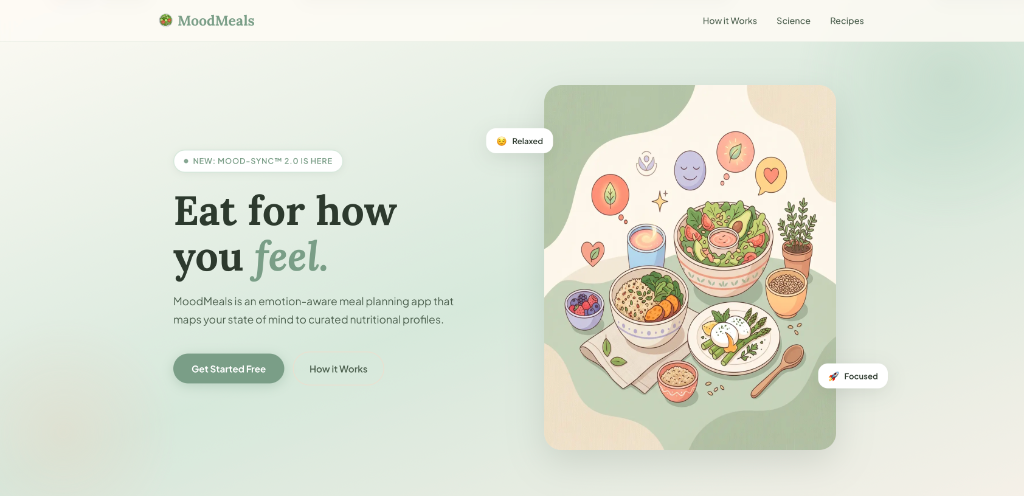
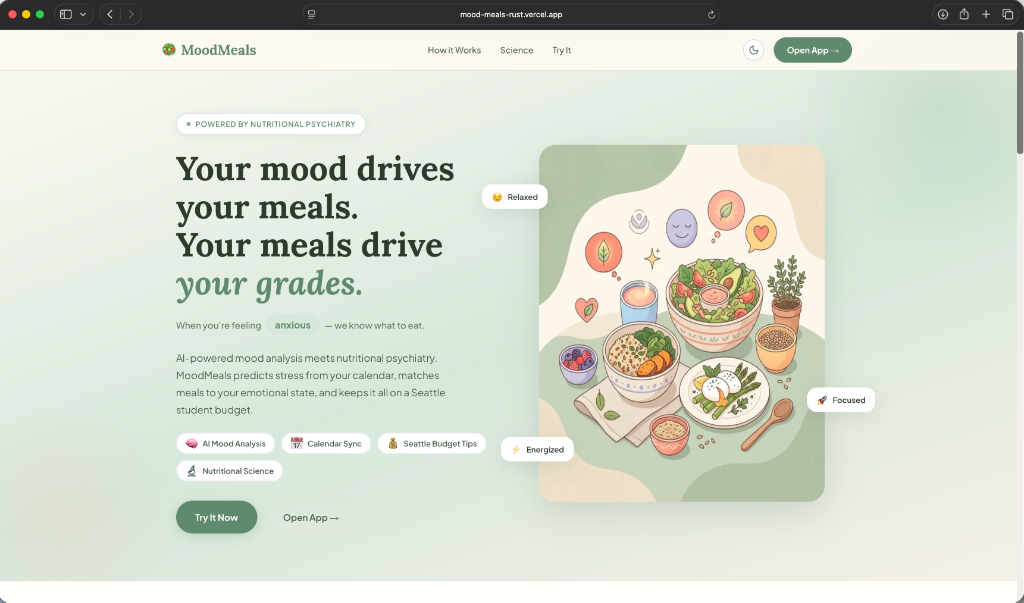
Updated projects

diff --git a/src/components/portfolio/WorkSection.jsx b/src/components/portfolio/WorkSection.jsx
@@ -6,13 +6,24 @@ export default function WorkSection() {
 
   const projects = [
     {
-      title: "MoodMeals",
-      company: "Personal Project",
+      title: "TheManager",
+      company: "UWB HACKS 2026",
       year: "2026",
-      description: "An emotion-aware meal planning PWA that maps psychological states to nutritional profiles, using AI to provide science-backed meal recommendations for emotional regulation and cognitive performance.",
-      tags: ["React (PWA)", "FastAPI", "Claude API", "Supabase", "Spoonacular API", "Tailwind CSS"],
+      description: "An AI-powered software factory that turns a product spec into a populated kanban, runs seven specialist agents to deliver each ticket, and shows the reasoning behind every decision for full auditability.",
+      tags: ["TypeScript", "React", "Node.js", "Gemma 4", "PostgreSQL", "Tauri"],
+      image: "./images/the-manager.png",
+      github: "https://github.com/aditya-pandita/theManager",
+      live: "https://devpost.com/software/themanager",
+    },
+    {
+      title: "MoodMeals",
+      company: "Emotion-Aware Meal PWA",
+      year: "2026",
+      description: "Emotion-aware meal planning PWA for college students. Uses Google Gemini 2.0 and Spoonacular to map psychological states to nutritional profiles, featuring grocery tracking and Google Calendar sync.",
+      tags: ["Next.js 16", "React 19", "TypeScript", "Supabase", "Gemini 2.0", "PWA"],
       image: "./images/mood-meals.png",
-      github: "https://github.com/vatsalp2008/MoodMeals",
+      github: "https://github.com/rohanjoshi1399/MoodMeals",
+      live: "https://mood-meals-rust.vercel.app",
     },
     {
       title: "F1 Race Predictions 2025",
@@ -60,13 +71,13 @@ export default function WorkSection() {
       github: "https://github.com/vatsalp2008",
     },
     {
-      title: "F1 Race Replay",
+      title: "F1 Analytics Dashboard",
       company: "Personal Project",
       year: "2025",
-      description: "Interactive F1 race telemetry visualization with live driver tracking, leaderboard, and replay controls for race analysis.",
-      tags: ["Python", "FastF1", "Arcade", "Data Visualization", "Real-time Processing"],
-      image: "./images/preview.png",
-      github: "https://github.com/vatsalp2008/F1-Race-Replay",
+      description: "Full-stack F1 analytics platform with interactive dashboards for lap telemetry, driver comparisons, and race strategy analysis using the FastF1 API and real-time data pipelines.",
+      tags: ["Python", "FastF1", "React", "Data Visualization", "REST API"],
+      image: "https://qtrypzzcjebvfcihiynt.supabase.co/storage/v1/object/public/base44-prod/public/68fdae81f7836cad567112d4/299a839c1_ferrari_f1_2027-wallpaper-2880x1620.jpg",
+      github: "https://github.com/vatsalp2008/f1-analytics-dashboard",
     },
   ];
 
@@ -121,9 +132,9 @@ export default function WorkSection() {
                 </div>
 
                 {/* Browser Content - Clickable if GitHub link exists */}
-                {project.github ? (
+                {project.live || project.github ? (
                   <a
-                    href={project.github}
+                    href={project.live || project.github}
                     target="_blank"
                     rel="noopener noreferrer"
                     className="block relative aspect-[16/10] overflow-hidden bg-[#0a0a0a] border border-gray-800 rounded-b-xl cursor-pointer"
@@ -162,9 +173,33 @@ export default function WorkSection() {
                     <h3 className="text-xl md:text-2xl font-bold mb-1 group-hover:text-[#DC0000] transition-colors duration-300">
                       {project.title}
                     </h3>
-                    <p className="text-sm text-gray-500">
-                      {project.company} · '{project.year.slice(-2)}
-                    </p>
+                    <div className="flex flex-wrap items-center gap-x-4 gap-y-2 mb-2">
+                      <p className="text-sm text-gray-400">
+                        {project.company} · '{project.year.slice(-2)}
+                      </p>
+                      <div className="flex gap-3">
+                        {project.github && (
+                          <a
+                            href={project.github}
+                            target="_blank"
+                            rel="noopener noreferrer"
+                            className="text-xs text-gray-500 hover:text-[#DC0000] transition-colors"
+                          >
+                            GitHub ↗
+                          </a>
+                        )}
+                        {project.live && (
+                          <a
+                            href={project.live}
+                            target="_blank"
+                            rel="noopener noreferrer"
+                            className="text-xs text-gray-500 hover:text-[#DC0000] transition-colors"
+                          >
+                            Live Demo ↗
+                          </a>
+                        )}
+                      </div>
+                    </div>
                   </div>
                 </div>
 
@@ -185,32 +220,6 @@ export default function WorkSection() {
             </motion.div>
           ))}
         </div>
-
-        {/* Stats Section */}
-        <motion.div
-          initial={{ opacity: 0, y: 20 }}
-          whileInView={{ opacity: 1, y: 0 }}
-          transition={{ duration: 0.6, delay: 0.4 }}
-          viewport={{ once: true }}
-          className="mt-24 grid grid-cols-2 md:grid-cols-4 gap-8 border-t border-gray-800 pt-12"
-        >
-          <div className="text-center">
-            <div className="text-3xl md:text-4xl font-bold text-[#DC0000] mb-2">98.8%</div>
-            <div className="text-sm text-gray-500">ML Model Accuracy</div>
-          </div>
-          <div className="text-center">
-            <div className="text-3xl md:text-4xl font-bold text-[#DC0000] mb-2">85.7%</div>
-            <div className="text-sm text-gray-500">LLM Agent Accuracy</div>
-          </div>
-          <div className="text-center">
-            <div className="text-3xl md:text-4xl font-bold text-[#DC0000] mb-2">97%</div>
-            <div className="text-sm text-gray-500">Performance Improvement</div>
-          </div>
-          <div className="text-center">
-            <div className="text-3xl md:text-4xl font-bold text-[#DC0000] mb-2">7+</div>
-            <div className="text-sm text-gray-500">Major Projects</div>
-          </div>
-        </motion.div>
 
         {/* View More */}
         <motion.div

diff --git a/src/components/portfolio/EducationSection.jsx b/src/components/portfolio/EducationSection.jsx
@@ -47,13 +47,6 @@ export default function EducationSection() {
     },
   ];
 
-  const certifications = [
-    "AWS Certified Solutions Architect",
-    "Google Cloud Professional Developer",
-    "Certified Kubernetes Administrator",
-    "MongoDB Certified Developer",
-  ];
-
   return (
     <section className="relative min-h-screen py-32 px-6">
       {/* Background Elements */}
@@ -163,37 +156,6 @@ export default function EducationSection() {
           ))}
         </div>
 
-        {/* Certifications */}
-        <motion.div
-          initial={{ opacity: 0, y: 30 }}
-          whileInView={{ opacity: 1, y: 0 }}
-          transition={{ duration: 0.6, delay: 0.4 }}
-          viewport={{ once: true }}
-          className="bg-gradient-to-br from-[#1a1a1a] to-[#121212] border border-[#DC0000]/20 rounded-sm p-8"
-        >
-          <h3 className="text-2xl font-black text-[#F5F5F5] mb-6 flex items-center gap-3">
-            <div className="p-2 bg-[#DC0000]/10 rounded-sm">
-              <Award className="w-6 h-6 text-[#DC0000]" />
-            </div>
-            Professional Certifications
-          </h3>
-
-          <div className="grid md:grid-cols-2 gap-4">
-            {certifications.map((cert, i) => (
-              <motion.div
-                key={i}
-                initial={{ opacity: 0, x: -20 }}
-                whileInView={{ opacity: 1, x: 0 }}
-                transition={{ duration: 0.4, delay: i * 0.1 }}
-                viewport={{ once: true }}
-                className="flex items-center gap-3 p-4 bg-[#121212] border border-[#DC0000]/10 rounded-sm hover:border-[#DC0000]/30 transition-colors duration-300"
-              >
-                <div className="w-2 h-2 bg-[#DC0000] rounded-full flex-shrink-0" />
-                <span className="text-[#A0A0A0] font-medium">{cert}</span>
-              </motion.div>
-            ))}
-          </div>
-        </motion.div>
       </div>
     </section>
   );